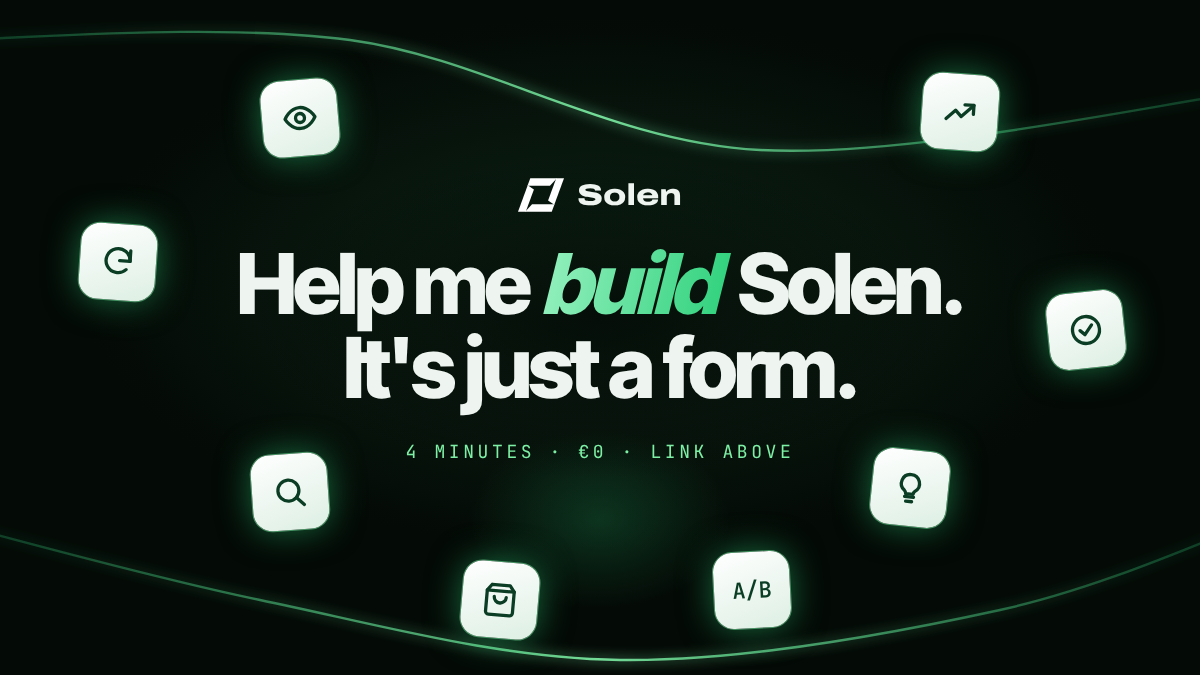
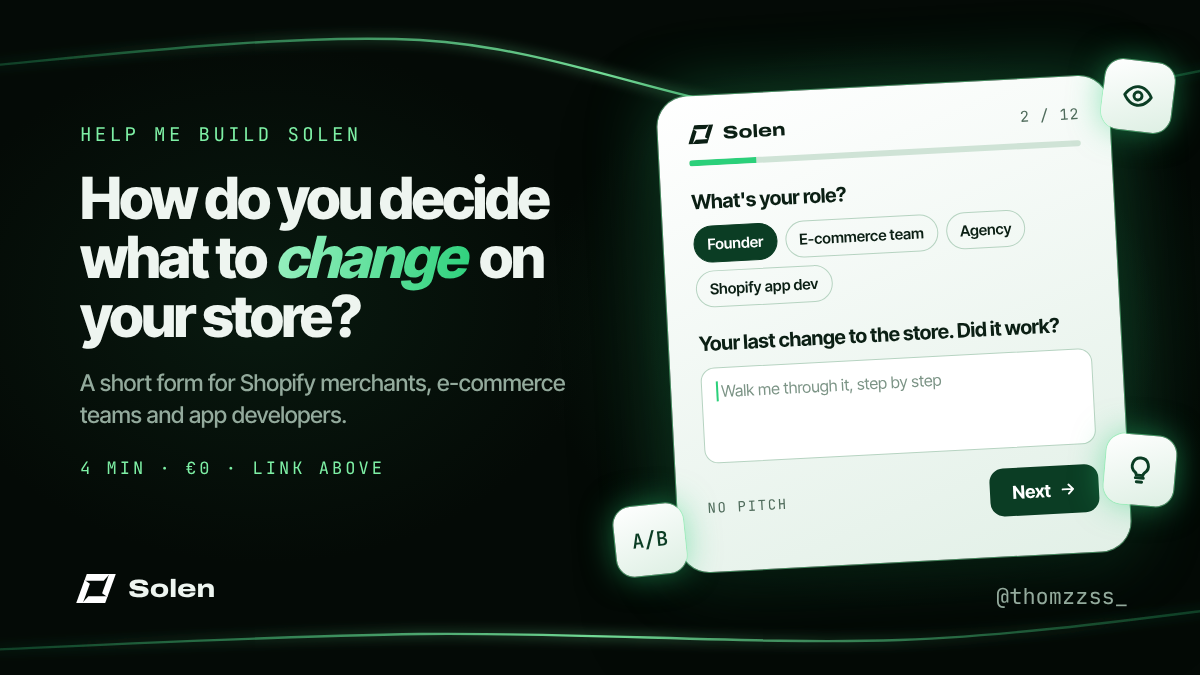
Redesign the X form visual: the form's question as the headline and the form shown as a card
Claude-Session: https://claude.ai/code/session_01BHXAVJFnX9CQrySXqS91xj

diff --git a/design/social/x-friction/_src/cta-form.html b/design/social/x-friction/_src/cta-form.html
@@ -3,63 +3,108 @@
 <head>
 <meta charset="utf-8">
 <!-- Visuel d'appel au formulaire, en réponse sous chaque post. 1200 x 675.
-     Copie conforme de la DA de la bannière X « réseau » (design/social/banniere-x-reseau-en.png) :
-     traits en dégradé qui partent d'un point sous le titre, tuiles blanches penchées, titre centré sur deux lignes. -->
+     Même mise en page que les visuels de friction (objet à droite, texte à gauche ici) : la question du formulaire en titre,
+     le formulaire lui-même en carte blanche, comme les tuiles de la bannière. Deux courbes au plus, qui ne passent pas sur le texte. -->
 <link rel="stylesheet" href="../../../video/vision-film/_src/fonts.css">
 <style>
-  :root{--bg:#040A06;--bright:#2BD07A;--light:#7EF0A5;--text:#EEF5F0;--muted:#93AA9C}
+  :root{--bg:#040A06;--bright:#2BD07A;--light:#7EF0A5;--text:#EEF5F0;--muted:#93AA9C;--ink:#0B1F14;--deep:#0B3D24}
   *{box-sizing:border-box;margin:0;padding:0}
   body{width:1200px;height:675px;background:var(--bg);overflow:hidden}
   #c{position:relative;width:1200px;height:675px;font-family:'Inter Tight';color:var(--text);overflow:hidden;
-     background:radial-gradient(ellipse 60% 55% at 50% 42%, #0C2416 0%, rgba(4,10,6,0) 72%), var(--bg)}
+     background:radial-gradient(ellipse 42% 60% at 74% 48%, #0E2A19 0%, rgba(4,10,6,0) 70%),
+                radial-gradient(ellipse 40% 55% at 22% 45%, rgba(12,36,22,.6) 0%, rgba(4,10,6,0) 70%), var(--bg)}
   svg.threads{position:absolute;inset:0}
-  .spot{position:absolute;left:470px;top:430px;width:260px;height:180px;border-radius:50%;background:radial-gradient(closest-side,rgba(43,208,122,.2),rgba(43,208,122,0))}
-  .halo{position:absolute;left:250px;top:150px;width:700px;height:330px;background:radial-gradient(closest-side,rgba(4,10,6,.85),rgba(4,10,6,0))}
-  .tile{position:absolute;width:76px;height:76px;margin:-38px 0 0 -38px;border-radius:19px;display:flex;align-items:center;justify-content:center;
-        background:linear-gradient(160deg,#FFFFFF,#DDEFE3);box-shadow:0 0 0 1px rgba(126,240,165,.5),0 0 34px rgba(43,208,122,.5)}
-  .tile svg{width:36px;height:36px;fill:none;stroke:#0B3D24;stroke-width:2.2;stroke-linecap:round;stroke-linejoin:round}
-  .tile.ab{font-family:'JetBrains Mono';font-weight:600;font-size:22px;color:#0B3D24}
-  .center{position:absolute;left:0;right:0;top:178px;display:flex;flex-direction:column;align-items:center;text-align:center}
-  .brand{display:flex;align-items:center;gap:13px}
-  .brand span{font-family:'Archivo';font-weight:800;font-stretch:125%;font-size:30px}
-  h1{margin-top:30px;font-weight:800;font-size:84px;line-height:1;letter-spacing:-.05em}
+  .mono{font-family:'JetBrains Mono';letter-spacing:.18em;text-transform:uppercase}
+
+  .copy{position:absolute;left:80px;top:122px;width:500px}
+  .eyebrow{font-size:19px;color:var(--light)}
+  h1{margin-top:22px;font-weight:800;font-size:58px;line-height:1.02;letter-spacing:-.045em}
   h1 i{font-style:italic;background:linear-gradient(100deg,#9BF2C2,var(--bright));-webkit-background-clip:text;background-clip:text;color:transparent;padding:0 .2em 0 .05em;margin:0 -.07em 0 -.05em}
-  .meta{margin-top:30px;font-family:'JetBrains Mono';font-size:18px;letter-spacing:.2em;text-transform:uppercase;color:var(--light)}
+  .sub{margin-top:22px;font-size:23px;line-height:1.35;font-weight:500;color:var(--muted);letter-spacing:-.01em}
+  .meta{margin-top:26px;font-size:17px;color:var(--light)}
+
+  /* La carte du formulaire : blanche et penchée, comme une grande tuile de la bannière */
+  .glow{position:absolute;left:640px;top:90px;width:520px;height:480px;border-radius:50%;background:radial-gradient(closest-side,rgba(43,208,122,.28),rgba(43,208,122,0))}
+  .form{position:absolute;left:668px;top:86px;width:452px;height:476px;border-radius:30px;padding:28px 30px;color:var(--ink);transform:rotate(-3deg);
+        background:linear-gradient(160deg,#FFFFFF,#E2F0E7);box-shadow:0 0 0 1px rgba(126,240,165,.5),0 40px 90px rgba(0,0,0,.55),0 0 70px rgba(43,208,122,.35)}
+  .fh{display:flex;align-items:center;justify-content:space-between}
+  .fb{display:flex;align-items:center;gap:9px}
+  .fb span{font-family:'Archivo';font-weight:800;font-stretch:125%;font-size:18px}
+  .step{font-family:'JetBrains Mono';font-size:15px;color:#4F6B5B;letter-spacing:.06em}
+  .track{margin-top:16px;height:6px;border-radius:3px;background:#CFE3D6;overflow:hidden}
+  .track i{display:block;width:17%;height:100%;background:var(--bright)}
+  .q{margin-top:24px;font-size:20px;font-weight:700;letter-spacing:-.02em}
+  .chips{margin-top:12px;display:flex;flex-wrap:wrap;gap:8px}
+  .chips span{border:1.5px solid #B6D3C1;border-radius:999px;padding:8px 13px;font-size:15px;font-weight:600}
+  .chips span.on{background:var(--deep);border-color:var(--deep);color:#fff}
+  .area{margin-top:12px;height:96px;border-radius:14px;border:1.5px solid #B6D3C1;background:#fff;padding:13px 14px;font-size:16px;color:#7C9486;line-height:1.35}
+  .area b{display:inline-block;width:2px;height:20px;background:var(--bright);vertical-align:-4px;margin-right:3px}
+  .ff{margin-top:20px;display:flex;align-items:center;justify-content:space-between}
+  .ff .mono{font-size:14px;color:#4F6B5B;letter-spacing:.12em}
+  .next{display:flex;align-items:center;gap:8px;height:48px;padding:0 22px;border-radius:14px;background:var(--deep);color:#fff;font-weight:700;font-size:18px}
+  .next svg{width:18px;height:18px;fill:none;stroke:#fff;stroke-width:2.6;stroke-linecap:round;stroke-linejoin:round}
+
+  .tile{position:absolute;width:70px;height:70px;margin:-35px 0 0 -35px;border-radius:18px;display:flex;align-items:center;justify-content:center;
+        background:linear-gradient(160deg,#FFFFFF,#DDEFE3);box-shadow:0 0 0 1px rgba(126,240,165,.5),0 0 32px rgba(43,208,122,.5)}
+  .tile svg{width:32px;height:32px;fill:none;stroke:var(--deep);stroke-width:2.2;stroke-linecap:round;stroke-linejoin:round}
+  .tile.ab{font-family:'JetBrains Mono';font-weight:600;font-size:20px;color:var(--deep)}
+
+  .brand{position:absolute;left:76px;top:574px;display:flex;align-items:center;gap:12px}
+  .brand span{font-family:'Archivo';font-weight:800;font-stretch:125%;font-size:25px}
+  .handle{position:absolute;right:72px;top:582px;font-family:'JetBrains Mono';font-size:22px;color:var(--muted)}
 </style>
 </head>
 <body>
 <div id="c">
   <svg class="threads" width="1200" height="675" viewBox="0 0 1200 675" aria-hidden="true"></svg>
-  <div class="spot"></div>
-  <div class="halo"></div>
-  <!-- Les tuiles de la bannière : observer, recommencer, chercher, panier, A/B, idée, valider, croissance -->
-  <div class="tile" style="left:300px;top:118px;transform:rotate(-5deg)"><svg viewBox="0 0 24 24"><path d="M2 12s3.5-7 10-7 10 7 10 7-3.5 7-10 7S2 12 2 12z"/><circle cx="12" cy="12" r="3"/></svg></div>
-  <div class="tile" style="left:118px;top:262px;transform:rotate(4deg)"><svg viewBox="0 0 24 24"><path d="M20 11a8 8 0 1 0-2.3 5.7"/><path d="M20 4v7h-7"/></svg></div>
-  <div class="tile" style="left:290px;top:492px;transform:rotate(-4deg)"><svg viewBox="0 0 24 24"><circle cx="11" cy="11" r="7"/><line x1="21" y1="21" x2="16" y2="16"/></svg></div>
-  <div class="tile" style="left:500px;top:600px;transform:rotate(5deg)"><svg viewBox="0 0 24 24"><path d="M6 2L3 6v14a2 2 0 0 0 2 2h14a2 2 0 0 0 2-2V6l-3-4z"/><line x1="3" y1="6" x2="21" y2="6"/><path d="M16 10a4 4 0 0 1-8 0"/></svg></div>
-  <div class="tile ab" style="left:752px;top:590px;transform:rotate(-3deg)">A/B</div>
-  <div class="tile" style="left:910px;top:488px;transform:rotate(6deg)"><svg viewBox="0 0 24 24"><path d="M9 18h6M10 21h4"/><path d="M12 3a6 6 0 0 0-3.5 10.9c.6.5 1 1.2 1 2.1h5c0-.9.4-1.6 1-2.1A6 6 0 0 0 12 3z"/></svg></div>
-  <div class="tile" style="left:1086px;top:330px;transform:rotate(-6deg)"><svg viewBox="0 0 24 24"><circle cx="12" cy="12" r="9"/><path d="M8 12l3 3 5-6"/></svg></div>
-  <div class="tile" style="left:960px;top:112px;transform:rotate(4deg)"><svg viewBox="0 0 24 24"><path d="M3 17l6-6 4 4 8-8"/><path d="M15 7h6v6"/></svg></div>
+  <div class="glow"></div>
 
-  <div class="center">
-    <div class="brand">
-      <svg width="46" height="34" viewBox="0 0 65.47 48.00" aria-hidden="true"><g fill="#FFFFFF">
-        <path d="M17.47 0.00 L55.47 0.00 L45.47 11.00 L13.47 11.00 Z"/><path d="M65.47 0.00 L51.64 38.00 L42.82 32.00 L54.47 0.00 Z"/>
-        <path d="M48.00 48.00 L10.00 48.00 L20.00 37.00 L52.00 37.00 Z"/><path d="M0.00 48.00 L13.83 10.00 L22.65 16.00 L11.00 48.00 Z"/></g></svg>
-      <span>Solen</span>
-    </div>
-    <h1>Help me <i>build</i> Solen.<br>It's just a form.</h1>
-    <div class="meta">4 minutes · €0 · Link above</div>
+  <div class="copy">
+    <div class="eyebrow mono">Help me build Solen</div>
+    <h1>How do you decide what to <i>change</i> on your store?</h1>
+    <div class="sub">A short form for Shopify merchants, e-commerce teams and app developers.</div>
+    <div class="meta mono">4 min · €0 · Link above</div>
   </div>
+
+  <div class="form">
+    <div class="fh">
+      <div class="fb">
+        <svg width="26" height="19" viewBox="0 0 65.47 48.00" aria-hidden="true"><g fill="#0B1F14">
+          <path d="M17.47 0.00 L55.47 0.00 L45.47 11.00 L13.47 11.00 Z"/><path d="M65.47 0.00 L51.64 38.00 L42.82 32.00 L54.47 0.00 Z"/>
+          <path d="M48.00 48.00 L10.00 48.00 L20.00 37.00 L52.00 37.00 Z"/><path d="M0.00 48.00 L13.83 10.00 L22.65 16.00 L11.00 48.00 Z"/></g></svg>
+        <span>Solen</span>
+      </div>
+      <div class="step">2 / 12</div>
+    </div>
+    <div class="track"><i></i></div>
+    <div class="q">What's your role?</div>
+    <div class="chips"><span class="on">Founder</span><span>E-commerce team</span><span>Agency</span><span>Shopify app dev</span></div>
+    <div class="q">Your last change to the store. Did it work?</div>
+    <div class="area"><b></b>Walk me through it, step by step</div>
+    <div class="ff">
+      <span class="mono">No pitch</span>
+      <div class="next">Next<svg viewBox="0 0 24 24"><path d="M5 12h14M13 6l6 6-6 6"/></svg></div>
+    </div>
+  </div>
+
+  <div class="tile" style="left:1138px;top:96px;transform:rotate(7deg)"><svg viewBox="0 0 24 24"><path d="M2 12s3.5-7 10-7 10 7 10 7-3.5 7-10 7S2 12 2 12z"/><circle cx="12" cy="12" r="3"/></svg></div>
+  <div class="tile ab" style="left:650px;top:540px;transform:rotate(-6deg)">A/B</div>
+  <div class="tile" style="left:1140px;top:470px;transform:rotate(5deg)"><svg viewBox="0 0 24 24"><path d="M9 18h6M10 21h4"/><path d="M12 3a6 6 0 0 0-3.5 10.9c.6.5 1 1.2 1 2.1h5c0-.9.4-1.6 1-2.1A6 6 0 0 0 12 3z"/></svg></div>
+
+  <div class="brand">
+    <svg width="40" height="29" viewBox="0 0 65.47 48.00" aria-hidden="true"><g fill="#FFFFFF">
+      <path d="M17.47 0.00 L55.47 0.00 L45.47 11.00 L13.47 11.00 Z"/><path d="M65.47 0.00 L51.64 38.00 L42.82 32.00 L54.47 0.00 Z"/>
+      <path d="M48.00 48.00 L10.00 48.00 L20.00 37.00 L52.00 37.00 Z"/><path d="M0.00 48.00 L13.83 10.00 L22.65 16.00 L11.00 48.00 Z"/></g></svg>
+    <span>Solen</span>
+  </div>
+  <div class="handle">@thomzzss_</div>
 </div>
 <script src="threads.js"></script>
 <script>
-// Comme la bannière : les traits partent d'un point sous le titre et rejoignent les tuiles et les bords.
-// Deux courbes douces au plus (demande de Thomas, 23/11), qui ne relient pas les tuiles une à une.
+// Deux courbes douces qui passent derrière la carte, jamais sur le texte.
 drawThreads([
-  [[-60,40], [350,40], [760,150], [1260,90]],
-  [[-60,520], [260,600], [620,660], [1000,610], [1260,520]],
+  [[-60,70], [420,40], [840,120], [1260,60]],
+  [[-60,652], [420,634], [900,640], [1260,604]],
 ]);
 </script>
 </body>
